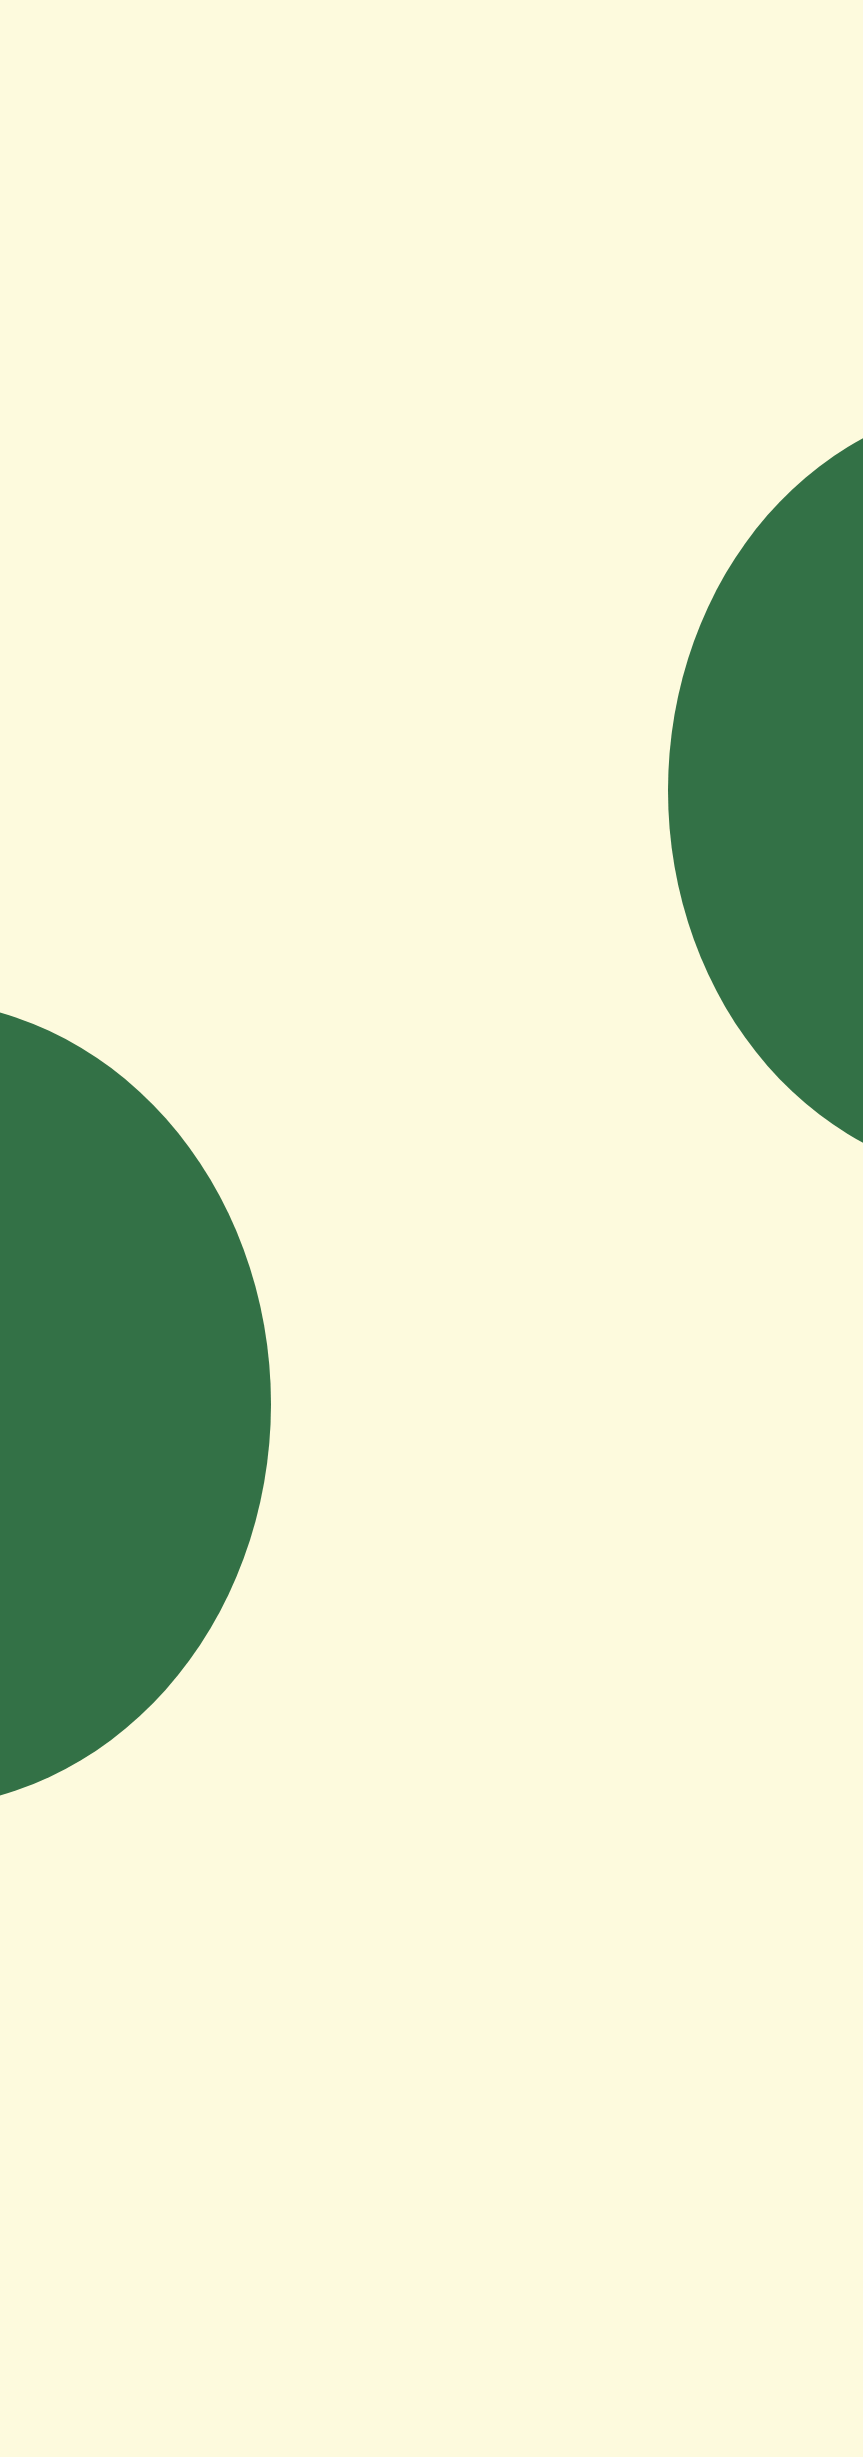
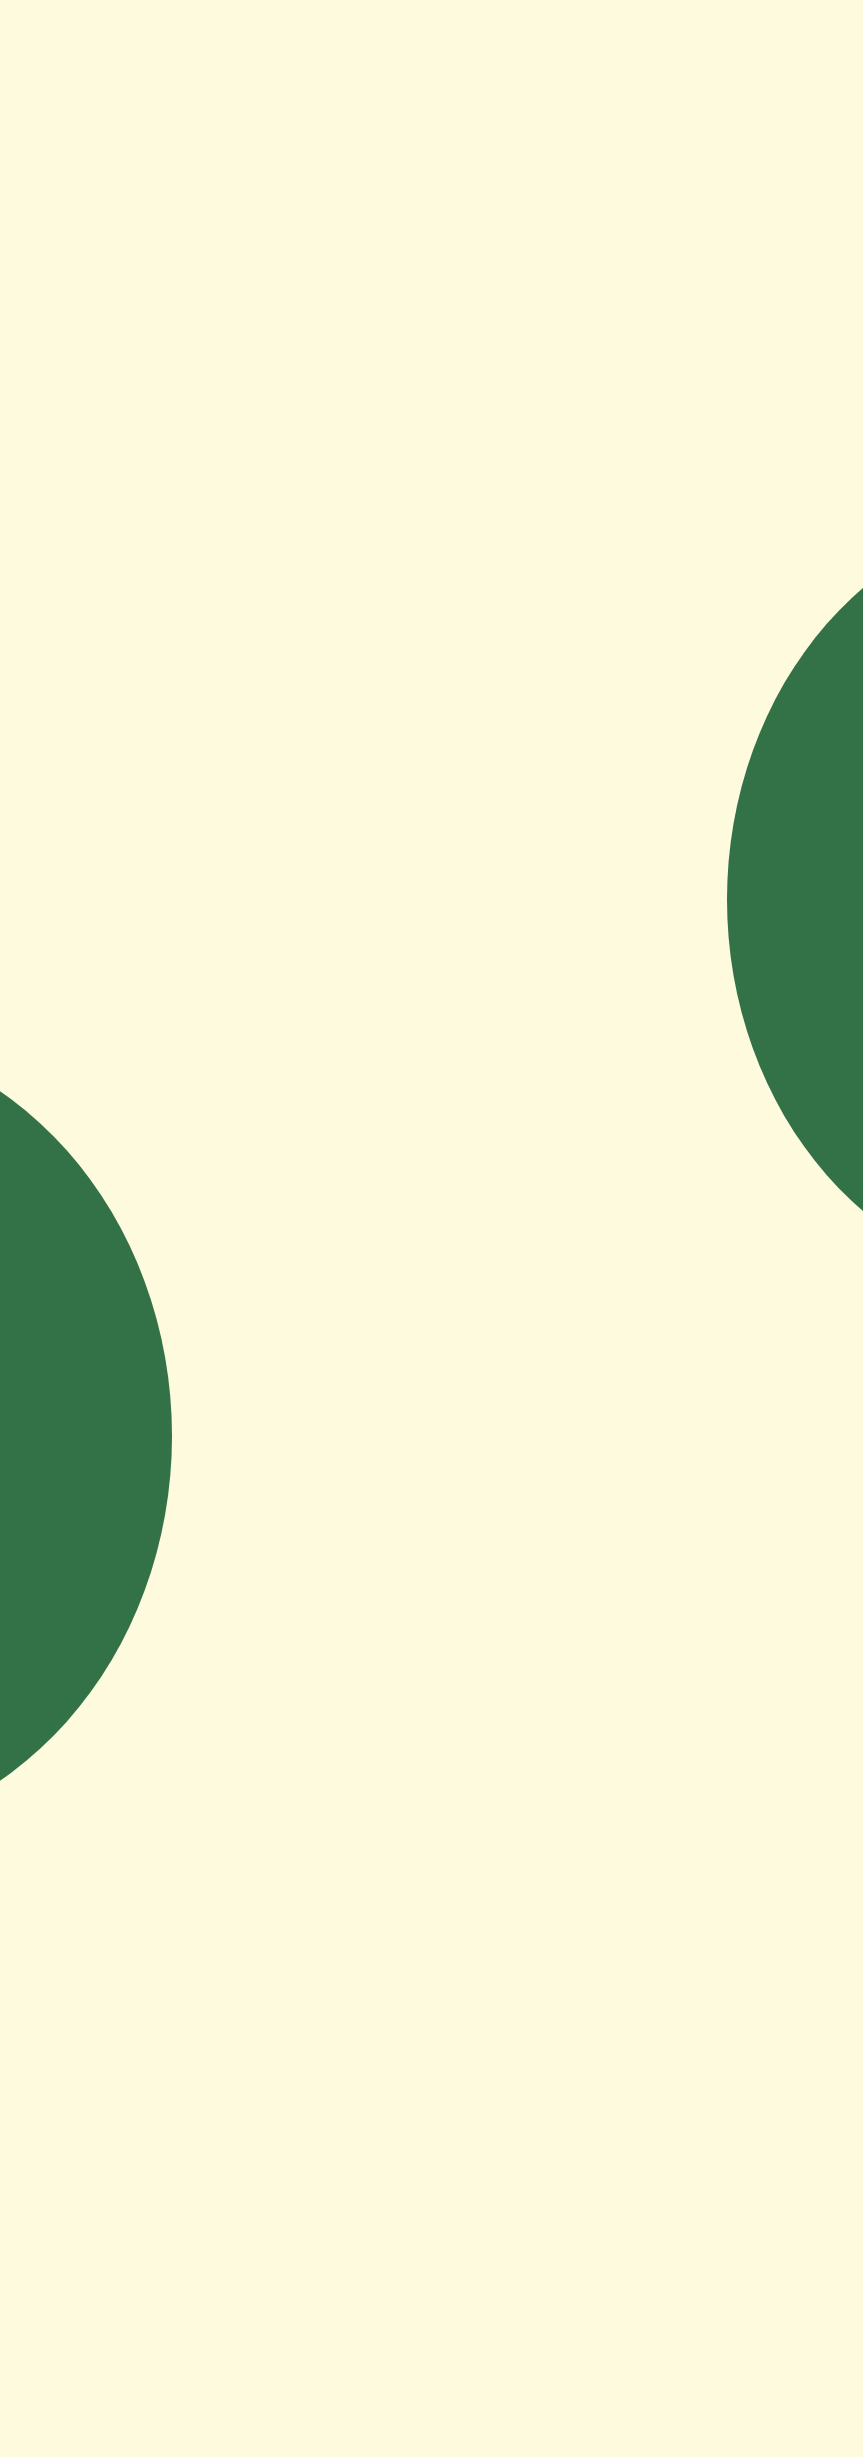
text size

Changed region(s): [[0.0, 0.4021, 0.3314, 0.7424], [0.7532, 0.1547, 1.0, 0.433], [0.8737, 0.433, 1.0, 0.4949]]

diff --git a/style.css b/style.css
@@ -907,10 +907,11 @@ margin-left: 20px;
   /*----ABOUT----*/
   .center-title{padding: 40px 150px 0;}
 
-  .center-body, .right-body{
+  .center-body{
     flex-direction: column;  
     margin-top: 50px;
-    padding:0 150px 0;
+    padding: 0 0 0;
+    
   }
 
   .right-body{
@@ -918,12 +919,13 @@ margin-left: 20px;
     margin-top: 0;
     padding:0 150px 0;
   }
-
+  .left-image{width: 70%}
+  .right-image{width: 100%;}
   .left-image, .right-image{
     box-shadow: 0 15px #0E3101;
     left:0px;
   }
-  .left-image,.right-image{width: 100%}
+
 
   /*keep all text center*/
   .center-body p{
